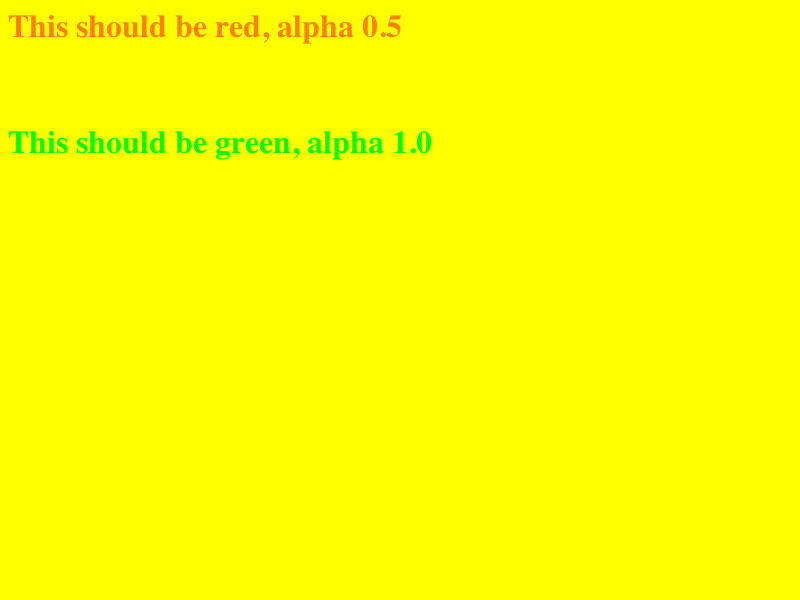
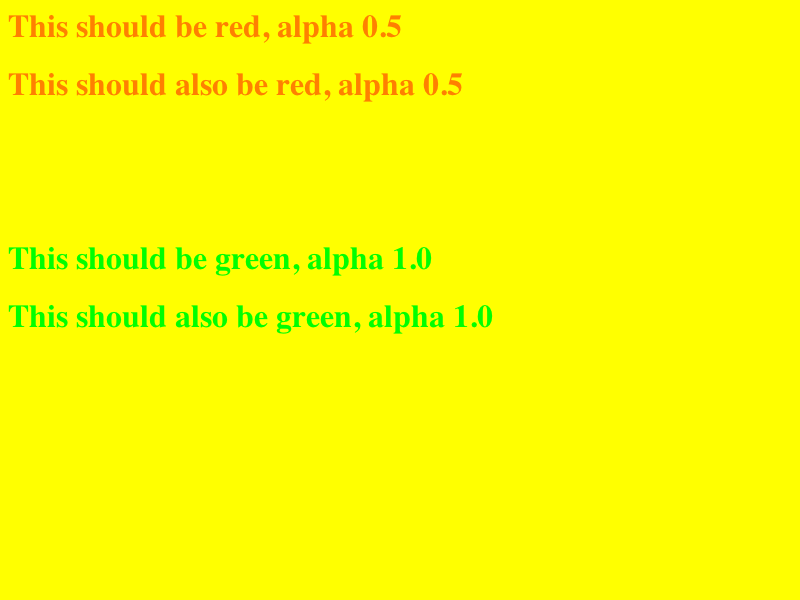
LayoutTests:
Reviewed by Mitz.

        Updated tests for http://bugs.webkit.org/show_bug.cgi?id=14825
        Non-integer hsl() colours are ignored

        * fast/css/hsl-color-expected.checksum:
        * fast/css/hsl-color-expected.png:
        * fast/css/hsl-color-expected.txt:
        * fast/css/hsl-color.html: Add non-integer hue tests
        * fast/css/hsla-color-expected.checksum:
        * fast/css/hsla-color-expected.png:
        * fast/css/hsla-color-expected.txt:
        * fast/css/hsla-color.html: Add non-integer hue tests

WebCore:

        Reviewed by Mitz.

        Fix for http://bugs.webkit.org/show_bug.cgi?id=14825
        Non-integer hsl() colours are ignored

        * css/CSSParser.cpp:
        (WebCore::CSSParser::parseHSLParameters): Parse hue as a Number,
        not an Integer.

Identifier: 19385@main
git-svn-id: https://svn.webkit.org/repository/webkit/trunk@24793 268f45cc-cd09-0410-ab3c-d52691b4dbfc

diff --git a/LayoutTests/fast/css/hsl-color.html b/LayoutTests/fast/css/hsl-color.html
@@ -19,6 +19,11 @@ h1#threesixtydarkgreen {color: hsl(480, 100%, 25%) }
 
 h1#neghuelightgreen {color: hsl(-240, 100%, 75%) }
 h1#neghuethreesixtylightgreen {color: hsl(-600, 100%, 75%) }
+
+h1#redFloat {color: hsl(0.0, 100%, 50%) }
+h1#greenFloat {color: hsl(120.00, 100%, 50%) }
+h1#blueFloat {color: hsl(240.000, 100%, 50%) }
+
 </style>
 </head>
 
@@ -44,6 +49,10 @@ Check Hue values with a negative angle.
 <h1 id="lightgreen">This should be light green: hsl(120, 100%, 75%)</h1>
 <h1 id="neghuelightgreen">This should be light green, too: hsl(-240, 100%, 75%)</h1>
 <h1 id="neghuethreesixtylightgreen">This should be light green, too: hsl(-600, 100%, 75%)</h1>
+Check Hues values with a floating point angle.
+<h1 id="redFloat">This should be red: hsl(0.0, 100%, 50%)</h1>
+<h1 id="greenFloat">This should be green: hsl(120.00, 100%, 50%)</h1>
+<h1 id="blueFloat">This should be blue: hsl(240.000, 100%, 50%)</h1>
 
-</body></html>
-
+</body>
+</html>

diff --git a/LayoutTests/fast/css/hsla-color.html b/LayoutTests/fast/css/hsla-color.html
@@ -4,14 +4,20 @@
 <style type="text/css">
 body {background-color:yellow;}
 h1#red {color: hsla(0, 100%, 50%, 0.5) }
+h1#red2 {color: hsla(0.0, 100%, 50%, 0.5) }
 h1#green {color: hsla(120, 100%, 50%, 0.0) }
+h1#green2 {color: hsla(120.0, 100%, 50%, 0.0) }
 h1#greensolid {color: hsla(120, 100%, 50%, 1.0) }
+h1#greensolid2 {color: hsla(120.0, 100%, 50%, 1.0) }
 </style>
 </head>
 
 <body>
 <h1 id="red">This should be red, alpha 0.5</h1>
+<h1 id="red2">This should also be red, alpha 0.5</h1>
 <h1 id="green">This should be green, alpha 0.0</h1>
+<h1 id="green2">This should also be green, alpha 0.0</h1>
 <h1 id="greensolid">This should be green, alpha 1.0</h1>
-</body></html>
-
+<h1 id="greensolid2">This should also be green, alpha 1.0</h1>
+</body>
+</html>

diff --git a/WebCore/css/CSSParser.cpp b/WebCore/css/CSSParser.cpp
@@ -2514,7 +2514,7 @@ bool CSSParser::parseHSLParameters(Value* value, double* colorArray, bool parseA
     ValueList* args = value->function->args;
     Value* v = args->current();
     // Get the first value
-    if (!validUnit(v, FInteger, true))
+    if (!validUnit(v, FNumber, true))
         return false;
     // normalize the Hue value and change it to be between 0 and 1.0
     colorArray[0] = (((static_cast<int>(v->fValue) % 360) + 360) % 360) / 360.0;
